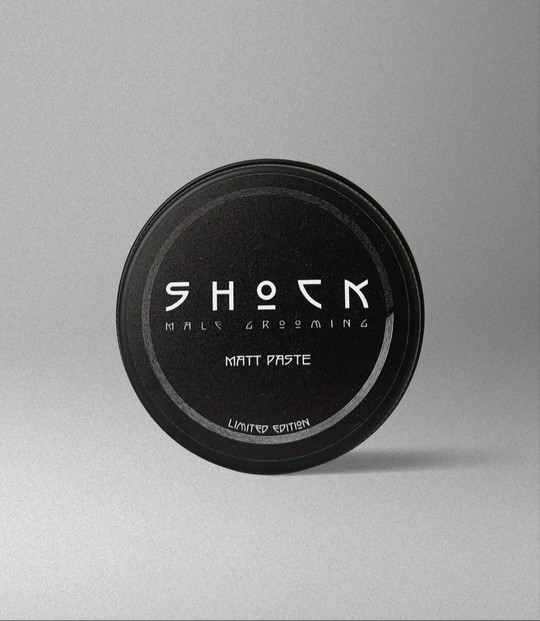
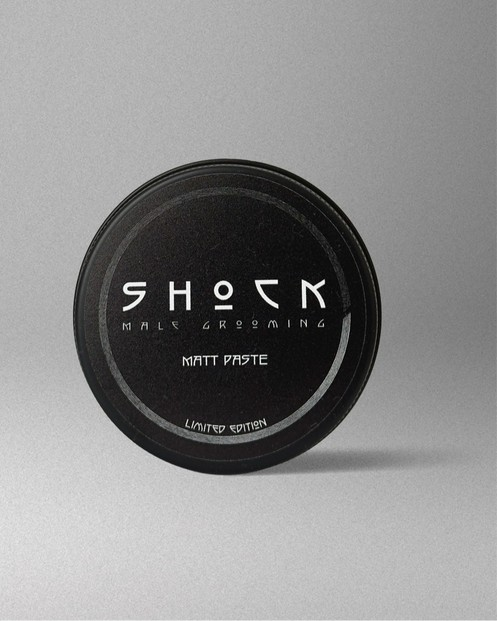
Zoom-crop SHOCK product photos so the product fills the frame
- Tighter centered crop per product (removes excess studio background)
- Cache-bust product image srcs (?v=2)

Changed region(s): [[0.1207, 0.2448, 0.7847, 0.7649]]

diff --git a/index.html b/index.html
@@ -219,22 +219,22 @@
       </div>
       <div class="product-grid">
         <a class="product-card reveal" href="https://shockmalegrooming.com/products/shock-beard-oil" target="_blank" rel="noopener">
-          <img class="product-img" src="assets/products/beard-oil.jpg" alt="SHOCK Beard Oil" loading="lazy" /><h3>Beard Oil</h3><p>Olio nutriente per barba</p><span class="product-cta">Acquista · €19 →</span>
+          <img class="product-img" src="assets/products/beard-oil.jpg?v=2" alt="SHOCK Beard Oil" loading="lazy" /><h3>Beard Oil</h3><p>Olio nutriente per barba</p><span class="product-cta">Acquista · €19 →</span>
         </a>
         <a class="product-card reveal" href="https://shockmalegrooming.com/products/shock%E2%84%A2-matt-paste" target="_blank" rel="noopener">
-          <img class="product-img" src="assets/products/matt-paste.jpg" alt="SHOCK Matt Paste" loading="lazy" /><h3>Matt Paste</h3><p>Pasta opaca, tenuta media</p><span class="product-cta">Acquista · €19 →</span>
+          <img class="product-img" src="assets/products/matt-paste.jpg?v=2" alt="SHOCK Matt Paste" loading="lazy" /><h3>Matt Paste</h3><p>Pasta opaca, tenuta media</p><span class="product-cta">Acquista · €19 →</span>
         </a>
         <a class="product-card reveal" href="https://shockmalegrooming.com/products/shock%E2%84%A2-shine-wax" target="_blank" rel="noopener">
-          <img class="product-img" src="assets/products/shine-wax.jpg" alt="SHOCK Shine Wax" loading="lazy" /><h3>Shine Wax</h3><p>Cera modellante effetto lucido</p><span class="product-cta">Acquista · €20 →</span>
+          <img class="product-img" src="assets/products/shine-wax.jpg?v=2" alt="SHOCK Shine Wax" loading="lazy" /><h3>Shine Wax</h3><p>Cera modellante effetto lucido</p><span class="product-cta">Acquista · €20 →</span>
         </a>
         <a class="product-card reveal" href="https://shockmalegrooming.com/products/copia-del-shock%E2%84%A2-sea-salt-spray" target="_blank" rel="noopener">
-          <img class="product-img" src="assets/products/powder.jpg" alt="SHOCK Powder" loading="lazy" /><h3>Powder</h3><p>Polvere volumizzante texturizzante</p><span class="product-cta">Acquista · €22 →</span>
+          <img class="product-img" src="assets/products/powder.jpg?v=2" alt="SHOCK Powder" loading="lazy" /><h3>Powder</h3><p>Polvere volumizzante texturizzante</p><span class="product-cta">Acquista · €22 →</span>
         </a>
         <a class="product-card reveal" href="https://shockmalegrooming.com/products/shock%E2%84%A2-sea-salt-spray" target="_blank" rel="noopener">
-          <img class="product-img" src="assets/products/sea-salt-spray.jpg" alt="SHOCK Sea Salt Spray" loading="lazy" /><h3>Sea Salt Spray</h3><p>Texture e volume, effetto mare</p><span class="product-cta">Acquista · €21 →</span>
+          <img class="product-img" src="assets/products/sea-salt-spray.jpg?v=2" alt="SHOCK Sea Salt Spray" loading="lazy" /><h3>Sea Salt Spray</h3><p>Texture e volume, effetto mare</p><span class="product-cta">Acquista · €21 →</span>
         </a>
         <a class="product-card reveal" href="https://shockmalegrooming.com/products/curl-design" target="_blank" rel="noopener">
-          <img class="product-img" src="assets/products/curl-design.jpg" alt="SHOCK Curl Design" loading="lazy" /><h3>Curl Design</h3><p>Definizione per capelli ricci</p><span class="product-cta">Acquista · €20 →</span>
+          <img class="product-img" src="assets/products/curl-design.jpg?v=2" alt="SHOCK Curl Design" loading="lazy" /><h3>Curl Design</h3><p>Definizione per capelli ricci</p><span class="product-cta">Acquista · €20 →</span>
         </a>
       </div>
       <div class="center reveal"><a href="https://shockmalegrooming.com/collections/all" target="_blank" rel="noopener" class="btn btn-ghost">Tutti i prodotti SHOCK</a></div>
